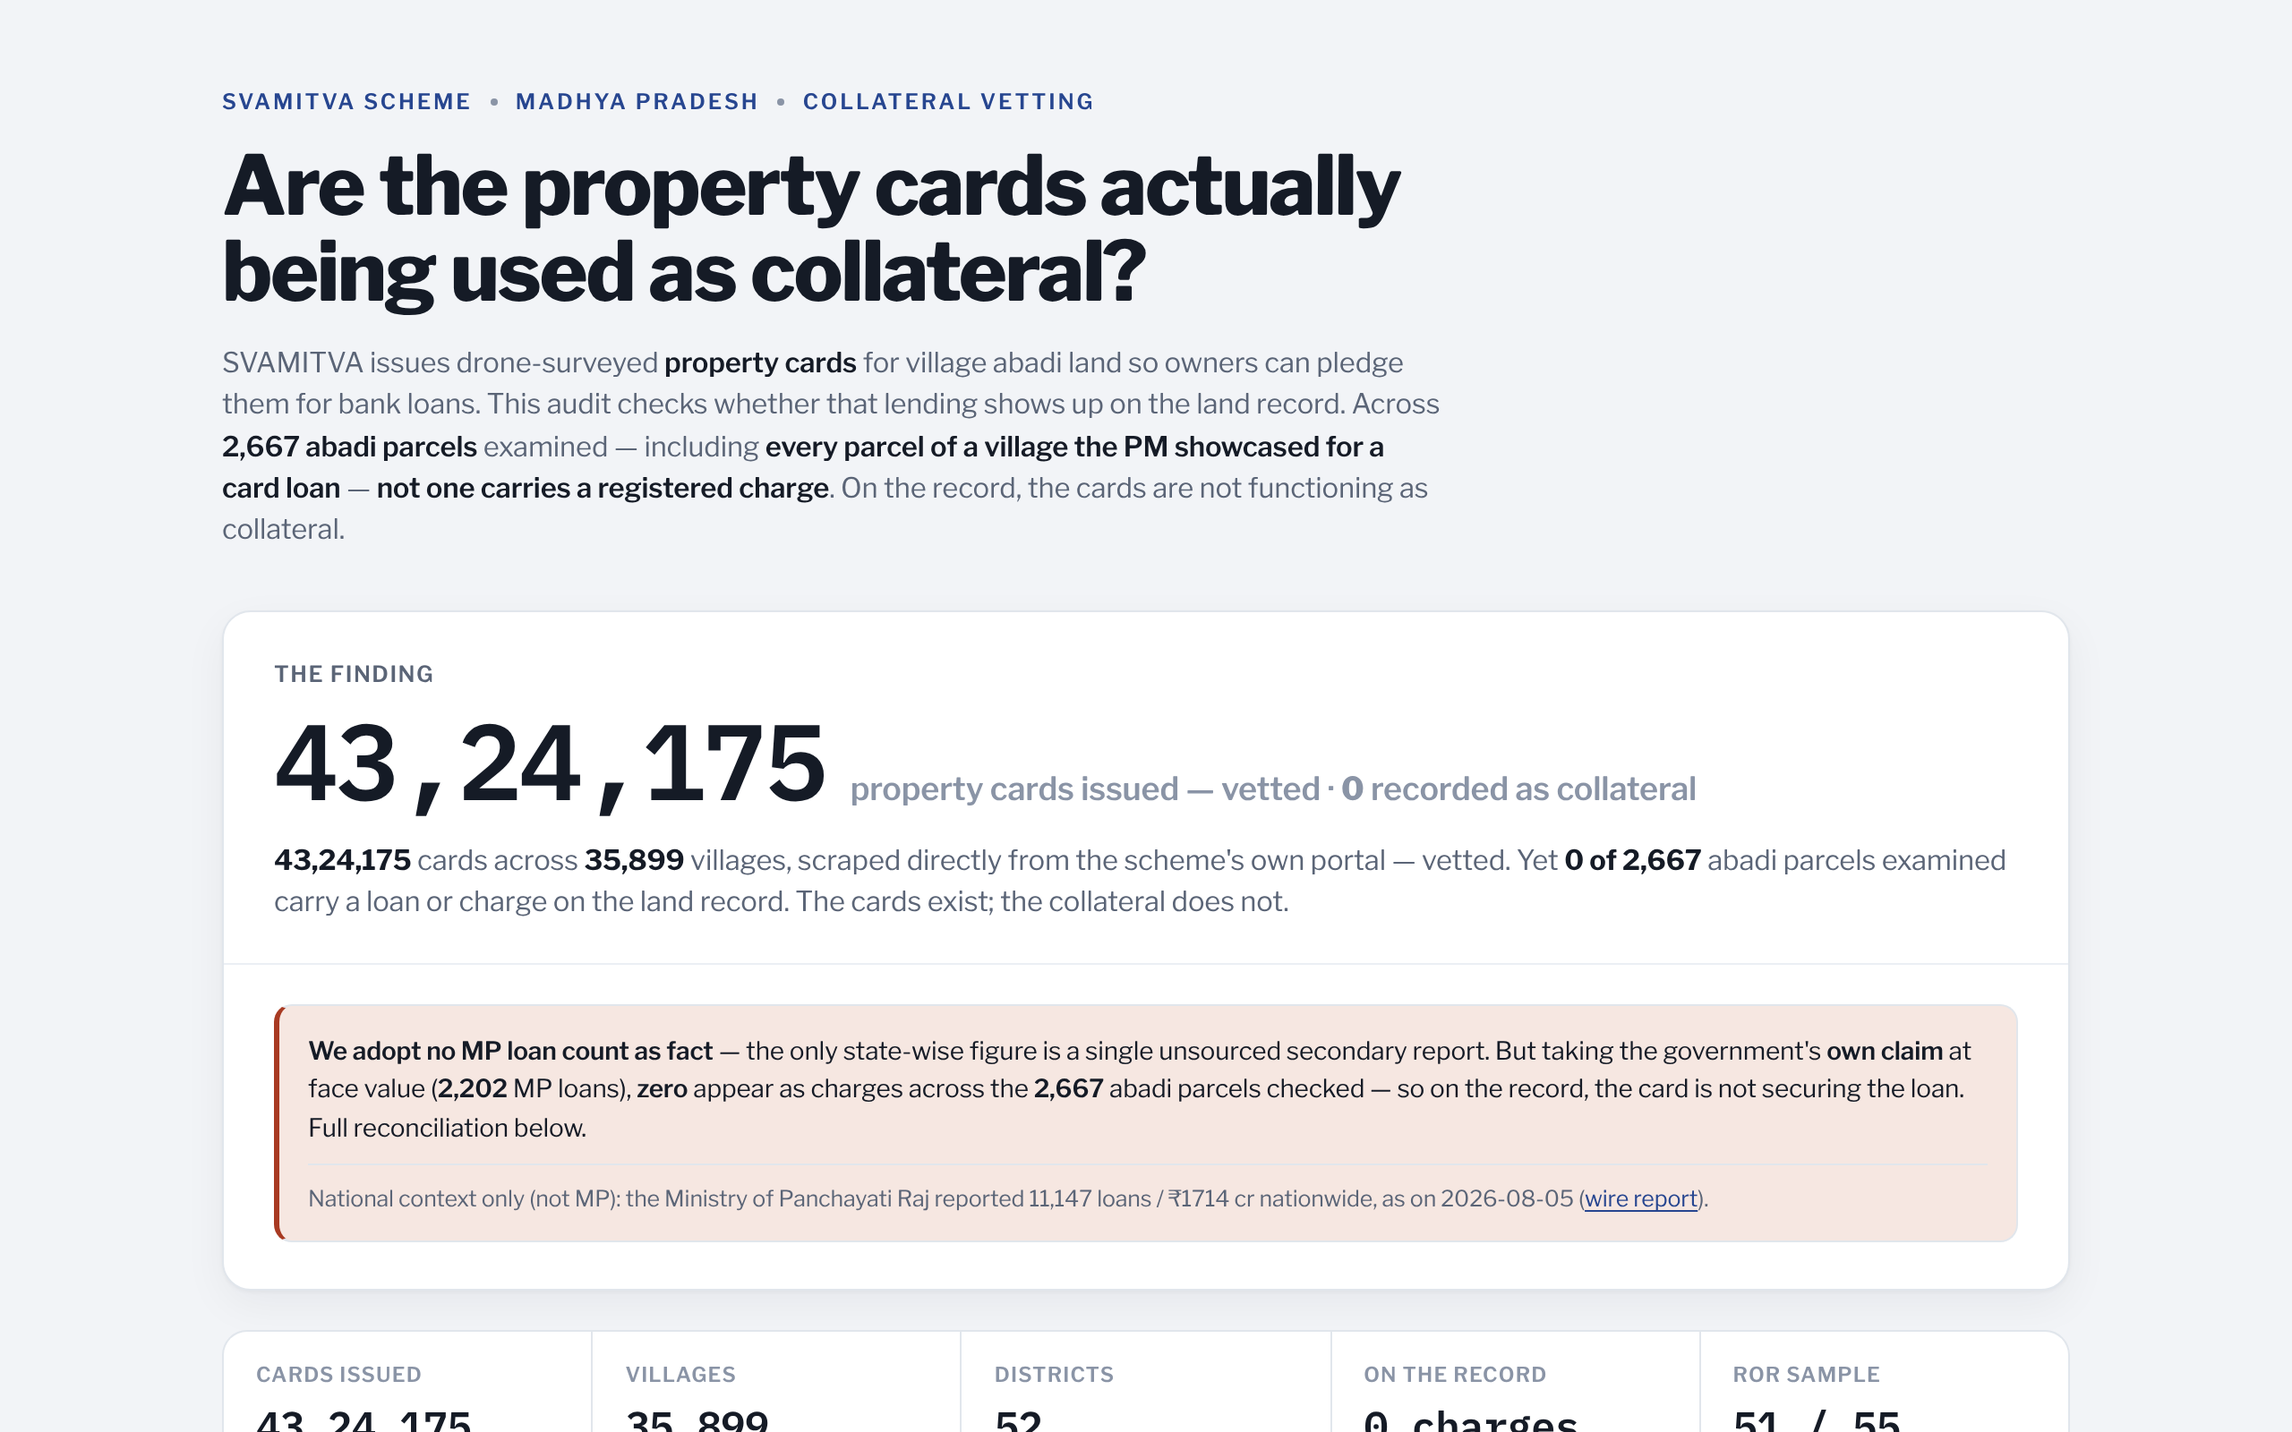
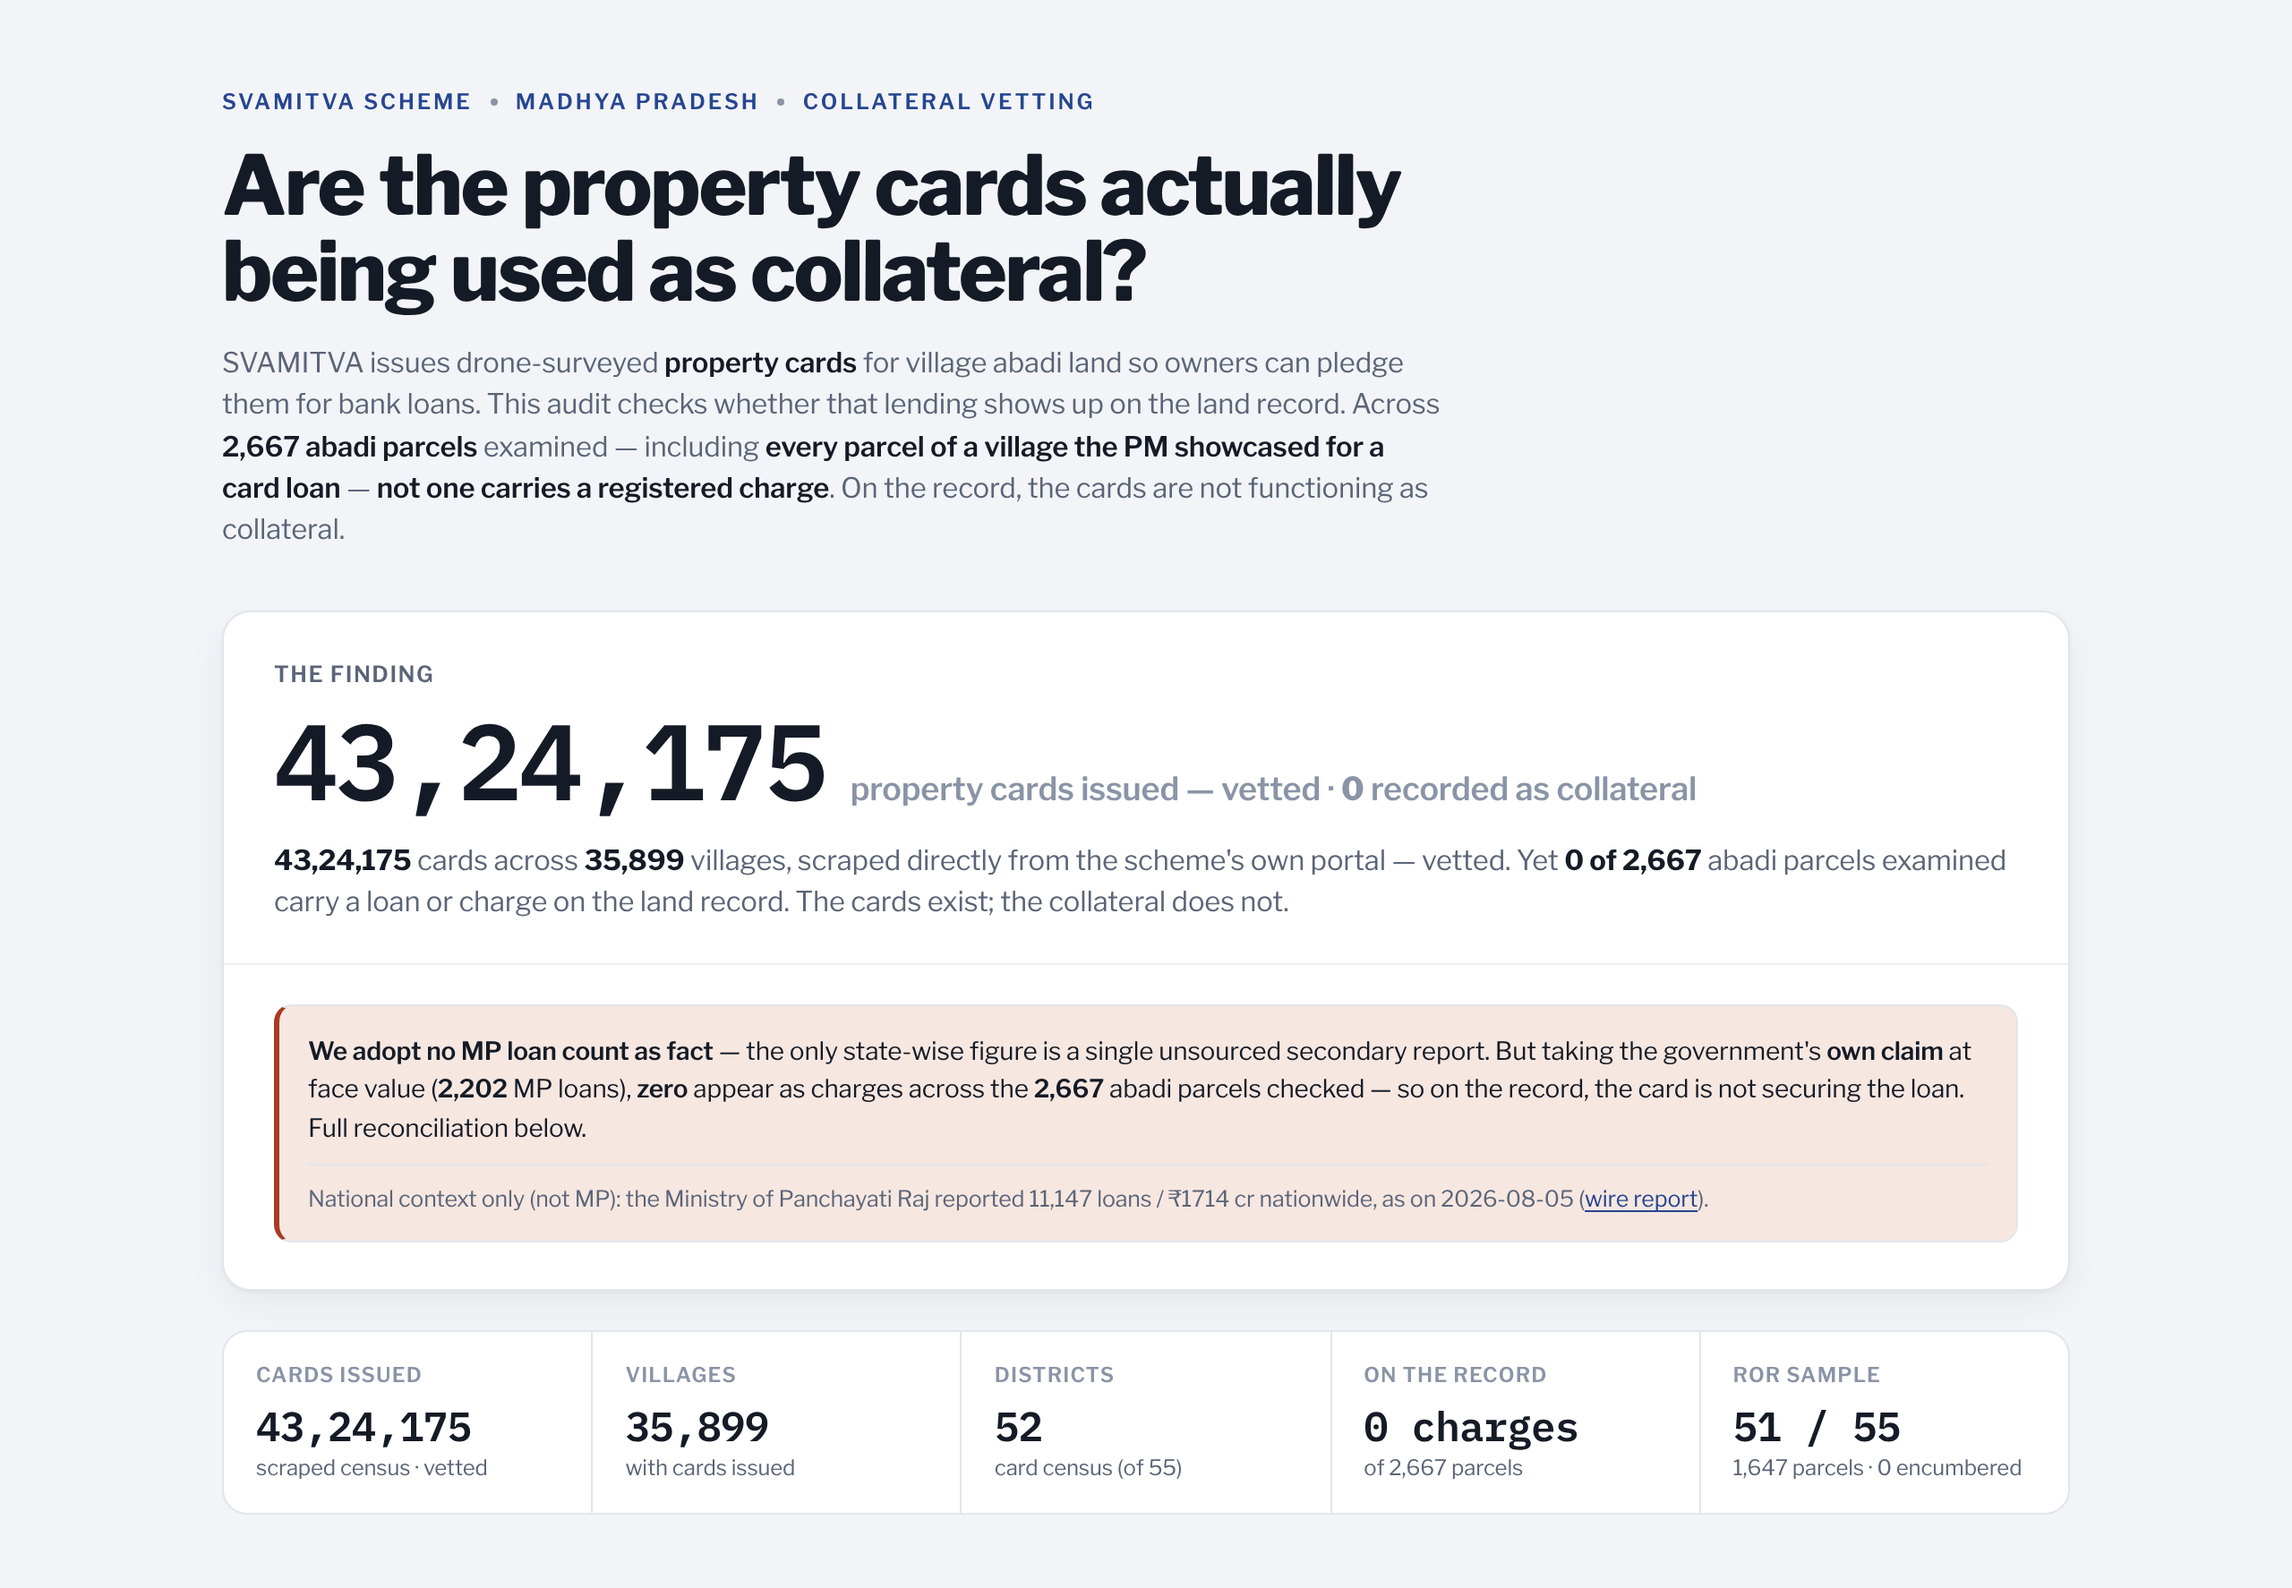
Address review notes on the CI and Pages workflows
- pages.yml: say how to re-run the deploy if Pages is enabled after the
  first run has failed, and describe the page accurately (data embedded,
  fonts from Google Fonts).
- ci.yml: fail the import step if a module calls sys.exit at import time
  instead of ending it early with exit 0, and stop calling the
  dependencies pinned (requirements files set lower bounds only).
- README: Setup installs requirements-dev.txt, which has playwright.
- docs/dashboard.png: retaken so the stat tile row is fully in frame.

Claude-Session: https://claude.ai/code/session_01VPdKcvp8gKRPeBjV3BKwZ7

diff --git a/README.md b/README.md
@@ -45,7 +45,7 @@ positive-control sweep from `loan_hunter.py`.
 
 ## Setup
 ```bash
-pip install -r requirements.txt
+pip install -r requirements-dev.txt       # includes requirements.txt; adds requests, playwright
 python -m playwright install chromium     # for the sampler / request-id mint
 ```
 
